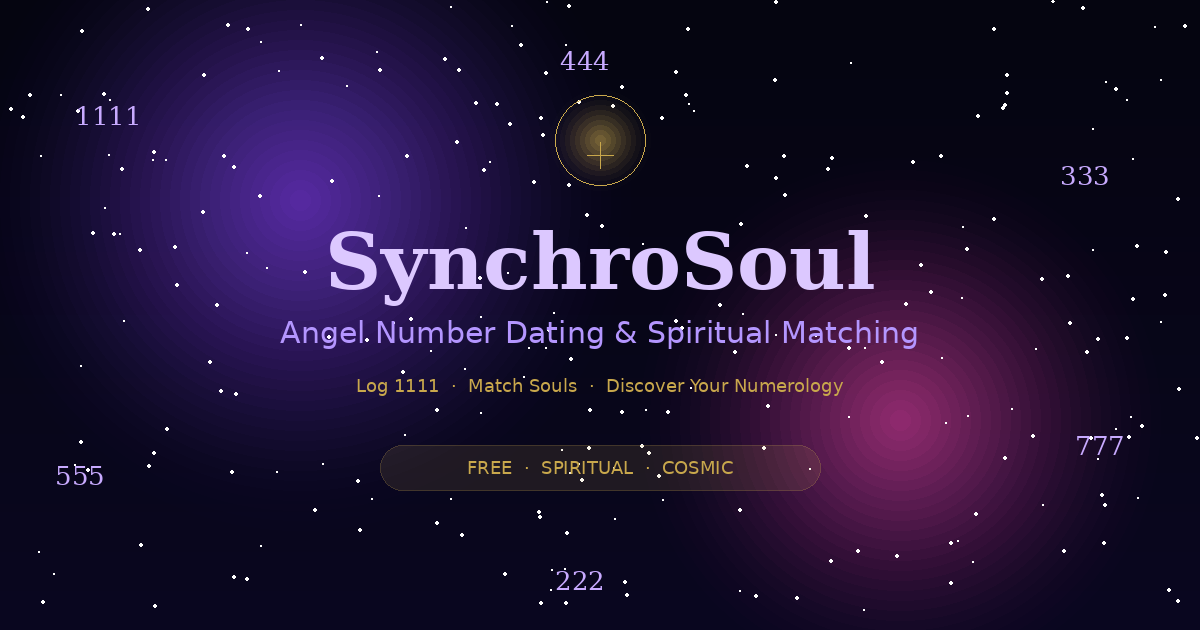
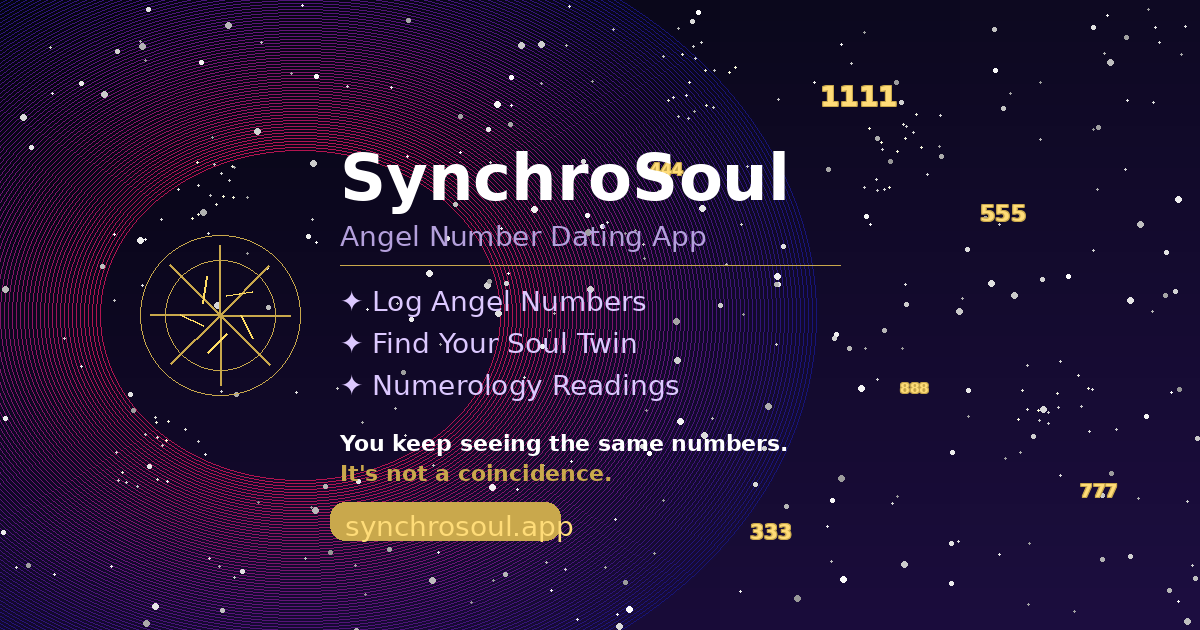
fix: OG image absolute URL for Facebook sharing + new preview image + social share buttons

diff --git a/app/page.tsx b/app/page.tsx
@@ -668,6 +668,94 @@ export default function HomePage() {
         </div>
       </section>
 
+
+      {/* ── SHARE THE MAGIC ──────────────────────────────────────────────── */}
+      <section style={{
+        padding: '3rem 2rem',
+        textAlign: 'center',
+        position: 'relative', zIndex: 10,
+      }}>
+        <p style={{
+          fontFamily: 'Cormorant Garamond, serif',
+          fontSize: '1.1rem',
+          color: 'rgba(200,180,255,0.6)',
+          letterSpacing: '0.15em',
+          textTransform: 'uppercase',
+          marginBottom: '0.75rem',
+        }}>Share the Magic</p>
+        <p style={{
+          color: 'rgba(255,255,255,0.5)',
+          fontSize: '0.95rem',
+          marginBottom: '1.5rem',
+        }}>Know someone who keeps seeing angel numbers?</p>
+        <div style={{ display: 'flex', gap: '1rem', justifyContent: 'center', flexWrap: 'wrap' }}>
+          <a
+            href="https://www.facebook.com/sharer/sharer.php?u=https%3A%2F%2Fsynchrosoul.app"
+            target="_blank"
+            rel="noopener noreferrer"
+            style={{
+              display: 'flex', alignItems: 'center', gap: '0.5rem',
+              padding: '0.75rem 1.5rem',
+              background: 'rgba(24,119,242,0.15)',
+              border: '1px solid rgba(24,119,242,0.4)',
+              borderRadius: '50px',
+              color: '#6ba3f5',
+              textDecoration: 'none',
+              fontSize: '0.95rem',
+              fontWeight: 500,
+              transition: 'all 0.2s',
+            }}
+          >
+            <svg width="18" height="18" viewBox="0 0 24 24" fill="currentColor">
+              <path d="M24 12.073c0-6.627-5.373-12-12-12s-12 5.373-12 12c0 5.99 4.388 10.954 10.125 11.854v-8.385H7.078v-3.47h3.047V9.43c0-3.007 1.792-4.669 4.533-4.669 1.312 0 2.686.235 2.686.235v2.953H15.83c-1.491 0-1.956.925-1.956 1.874v2.25h3.328l-.532 3.47h-2.796v8.385C19.612 23.027 24 18.062 24 12.073z"/>
+            </svg>
+            Share on Facebook
+          </a>
+          <a
+            href="https://twitter.com/intent/tweet?url=https%3A%2F%2Fsynchrosoul.app&text=I%20found%20an%20app%20that%20matches%20you%20with%20people%20seeing%20the%20same%20angel%20numbers%20%F0%9F%94%AE%20If%20you%20keep%20seeing%201111%2C%20555%2C%20333...%20this%20is%20for%20you."
+            target="_blank"
+            rel="noopener noreferrer"
+            style={{
+              display: 'flex', alignItems: 'center', gap: '0.5rem',
+              padding: '0.75rem 1.5rem',
+              background: 'rgba(255,255,255,0.05)',
+              border: '1px solid rgba(255,255,255,0.2)',
+              borderRadius: '50px',
+              color: 'rgba(255,255,255,0.8)',
+              textDecoration: 'none',
+              fontSize: '0.95rem',
+              fontWeight: 500,
+            }}
+          >
+            <svg width="18" height="18" viewBox="0 0 24 24" fill="currentColor">
+              <path d="M18.244 2.25h3.308l-7.227 8.26 8.502 11.24H16.17l-4.714-6.231-5.401 6.231H2.744l7.73-8.835L1.254 2.25H8.08l4.259 5.63zm-1.161 17.52h1.833L7.084 4.126H5.117z"/>
+            </svg>
+            Share on X
+          </a>
+          <a
+            href="https://wa.me/?text=I%20found%20an%20app%20that%20matches%20you%20with%20people%20seeing%20the%20same%20angel%20numbers%20%F0%9F%94%AE%20https%3A%2F%2Fsynchrosoul.app"
+            target="_blank"
+            rel="noopener noreferrer"
+            style={{
+              display: 'flex', alignItems: 'center', gap: '0.5rem',
+              padding: '0.75rem 1.5rem',
+              background: 'rgba(37,211,102,0.1)',
+              border: '1px solid rgba(37,211,102,0.3)',
+              borderRadius: '50px',
+              color: '#4ade80',
+              textDecoration: 'none',
+              fontSize: '0.95rem',
+              fontWeight: 500,
+            }}
+          >
+            <svg width="18" height="18" viewBox="0 0 24 24" fill="currentColor">
+              <path d="M17.472 14.382c-.297-.149-1.758-.867-2.03-.967-.273-.099-.471-.148-.67.15-.197.297-.767.966-.94 1.164-.173.199-.347.223-.644.075-.297-.15-1.255-.463-2.39-1.475-.883-.788-1.48-1.761-1.653-2.059-.173-.297-.018-.458.13-.606.134-.133.298-.347.446-.52.149-.174.198-.298.298-.497.099-.198.05-.371-.025-.52-.075-.149-.669-1.612-.916-2.207-.242-.579-.487-.5-.669-.51-.173-.008-.371-.01-.57-.01-.198 0-.52.074-.792.372-.272.297-1.04 1.016-1.04 2.479 0 1.462 1.065 2.875 1.213 3.074.149.198 2.096 3.2 5.077 4.487.709.306 1.262.489 1.694.625.712.227 1.36.195 1.871.118.571-.085 1.758-.719 2.006-1.413.248-.694.248-1.289.173-1.413-.074-.124-.272-.198-.57-.347m-5.421 7.403h-.004a9.87 9.87 0 01-5.031-1.378l-.361-.214-3.741.982.998-3.648-.235-.374a9.86 9.86 0 01-1.51-5.26c.001-5.45 4.436-9.884 9.888-9.884 2.64 0 5.122 1.03 6.988 2.898a9.825 9.825 0 012.893 6.994c-.003 5.45-4.437 9.884-9.885 9.884m8.413-18.297A11.815 11.815 0 0012.05 0C5.495 0 .16 5.335.157 11.892c0 2.096.547 4.142 1.588 5.945L.057 24l6.305-1.654a11.882 11.882 0 005.683 1.448h.005c6.554 0 11.89-5.335 11.893-11.893a11.821 11.821 0 00-3.48-8.413z"/>
+            </svg>
+            Share on WhatsApp
+          </a>
+        </div>
+      </section>
+
       {/* ── FOOTER ───────────────────────────────────────────────────────── */}
       <footer style={{
         borderTop: '1px solid rgba(200,180,255,0.06)',

diff --git a/app/layout.tsx b/app/layout.tsx
@@ -52,7 +52,7 @@ export const metadata: Metadata = {
     description: 'Log the angel numbers you see. Match with souls on your cosmic frequency. Discover your numerology profile and connect with people seeing 1111, 555, 333 at the same time as you.',
     images: [
       {
-        url: '/og-image.png',
+        url: `${siteUrl}/og-image.png`,
         width: 1200,
         height: 630,
         alt: 'SynchroSoul — Angel Number Dating App',
@@ -66,7 +66,7 @@ export const metadata: Metadata = {
     creator: '@synchrosoul',
     title: 'SynchroSoul — Angel Number Dating',
     description: 'Match with souls seeing the same angel numbers. Log 1111, 555, 333 and find your cosmic connection.',
-    images: ['/og-image.png'],
+    images: [`${siteUrl}/og-image.png`],
   },
   appleWebApp: {
     capable: true,
